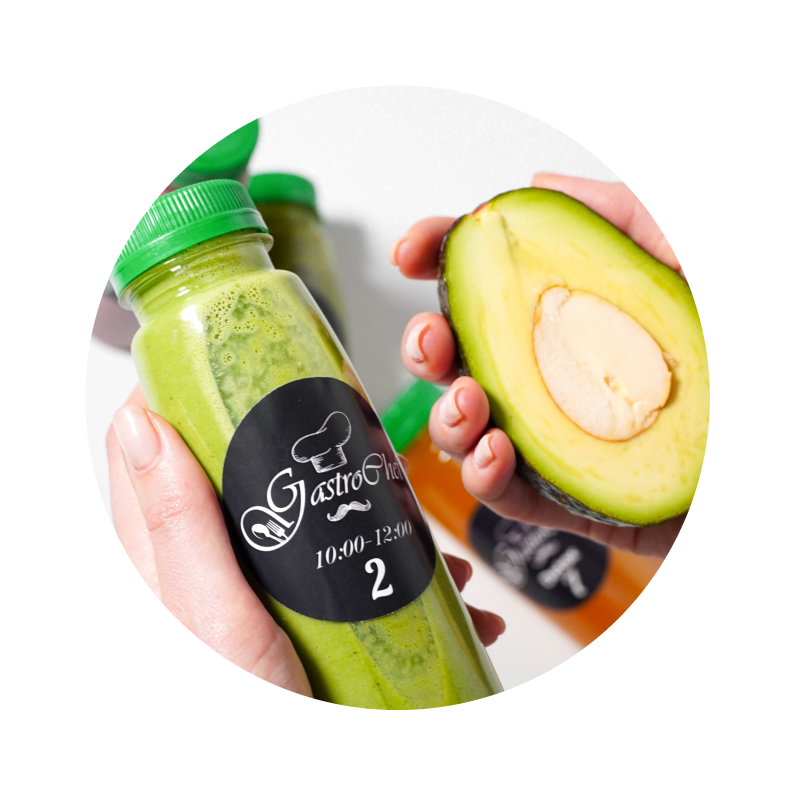
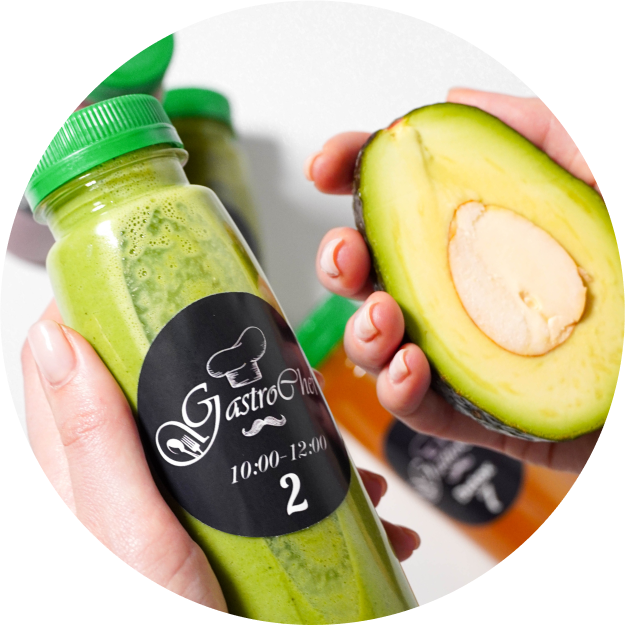
Created image component and create bg circle
Changelog:
 - Created image component
 - Header moved from HomePage into MainPromo
 - Aling promo content half

diff --git a/src/components/MainPromo/MainPromo.jsx b/src/components/MainPromo/MainPromo.jsx
@@ -1,10 +1,13 @@
 /* eslint-disable */
 import React, { useState } from 'react'
 
-import styles from './MainPromo.module.scss'
-import DATA from './data.js'
+import Header from 'components/Header'
 import MenuAddition from 'components/MenuAddition'
 import MainPromoContent from './components/MainPromoContent'
+import MainPromoImage from './components/MainPromoImage'
+
+import styles from './MainPromo.module.scss'
+import DATA from './data.js'
 
 const MainPromo = () => {
 	const [currentSlideId, setCurrentSlideId] = useState(0)
@@ -13,13 +16,11 @@ const MainPromo = () => {
 
 	return (
 		<section className={styles.promo}>
+			<Header />
 			<div className={styles.wrapper}>
 				<MenuAddition />
 				<MainPromoContent slideData={currentSlide} />
-
-				<div className={styles.photo}>
-					{/* <img src={imageSrc} alt='' className={styles.photoImage} /> */}
-				</div>
+				<MainPromoImage imageName={currentSlide.imageName} />
 			</div>
 
 			<div className={styles.dots}></div>

diff --git a/src/components/MainPromo/components/MainPromoImage/MainPromoImage.jsx b/src/components/MainPromo/components/MainPromoImage/MainPromoImage.jsx
@@ -1,0 +1,30 @@
+import React, { useState, useEffect } from 'react'
+import PropTypes from 'prop-types'
+
+import styles from './MainPromoImage.module.scss'
+
+const MainPromoImage = ({ imageName }) => {
+	const [image, setImage] = useState('')
+
+	useEffect(() => {
+		if (imageName) {
+			import(`../../../../assets/images/promo-slide-${imageName}.png`).then(
+				image => {
+					setImage(image.default)
+				}
+			)
+		}
+	}, [])
+
+	return (
+		<div className={styles.wrapper}>
+			<img src={image} alt={imageName} className={styles.image} />
+		</div>
+	)
+}
+
+MainPromoImage.propTypes = {
+	imageName: PropTypes.string.isRequired
+}
+
+export default MainPromoImage

diff --git a/src/components/MainPromo/data.js b/src/components/MainPromo/data.js
@@ -34,7 +34,7 @@ export default [
 			ua: '',
 			en: ''
 		},
-		image: 'promo-slide-chery.png',
+		imageName: 'chery',
 		url: ''
 	},
 	{
@@ -59,7 +59,7 @@ export default [
 			ua: '',
 			en: ''
 		},
-		image: 'promo-slide-man',
+		imageName: 'man',
 		url: ''
 	},
 	{
@@ -84,7 +84,7 @@ export default [
 			ua: '',
 			en: ''
 		},
-		image: '',
+		imageName: '',
 		url: ''
 	},
 	{
@@ -109,7 +109,7 @@ export default [
 			ua: '',
 			en: ''
 		},
-		image: '',
+		imageName: '',
 		url: ''
 	}
 ]

diff --git a/src/components/MainPromo/MainPromo.module.scss b/src/components/MainPromo/MainPromo.module.scss
@@ -1,0 +1,28 @@
+.promo {
+	padding-left: 50px;
+	padding-right: 57px;
+	overflow-x: hidden;
+
+	position: relative;
+	&::before {
+		content: '';
+		position: absolute;
+		top: -100px;
+		right: -350px;
+
+		width: 1294px;
+		height: 1294px;
+
+		border-radius: 50%;
+		background: var(--accent);
+		box-shadow: 0px 0px 40px rgba(86, 86, 86, 0.4);
+
+		z-index: -100;
+	}
+}
+
+.wrapper {
+	display: flex;
+	justify-content: space-between;
+	align-items: center;
+}

diff --git a/src/components/Header/Header.module.scss b/src/components/Header/Header.module.scss
@@ -1,10 +1,11 @@
 .header {
-	margin: 0 370px 0 330px;
+	margin: 0 40px 0 0px;
 	padding-top: 52px;
 	font-size: 16px;
 
 	display: flex;
-	justify-content: space-between;
+	justify-content: center;
+	column-gap: 20px;
 }
 
 .headerFistPart {
@@ -63,7 +64,6 @@
 .phone {
 	display: inline-block;
 
-	margin-left: 20px;
 	padding: 14px 30px;
 
 	height: 52px;

diff --git a/src/components/MainPromo/components/MainPromoImage/MainPromoImage.module.scss b/src/components/MainPromo/components/MainPromoImage/MainPromoImage.module.scss
@@ -1,0 +1,15 @@
+.wrapper {
+	width: 700px;
+	height: 700px;
+
+	display: flex;
+	justify-content: center;
+	align-items: center;
+
+	border-radius: 50%;
+	background: var(--bg-light);
+	box-shadow: 0px 0px 30px rgba(86, 86, 86, 0.3);
+}
+
+.image {
+}

diff --git a/src/pages/HomePage.jsx b/src/pages/HomePage.jsx
@@ -1,12 +1,10 @@
 import React from 'react'
 
-import Header from 'components/Header'
 import MainPromo from 'components/MainPromo'
 
 const HomePage = () => {
 	return (
 		<div>
-			<Header />
 			<MainPromo />
 		</div>
 	)

diff --git a/src/components/MainPromo/components/MainPromoContent/MainPromoContent.module.scss b/src/components/MainPromo/components/MainPromoContent/MainPromoContent.module.scss
@@ -1,3 +1,8 @@
+.content {
+	max-width: 535px;
+	padding-bottom: 30px;
+}
+
 .green {
 	font-family: inherit;
 	font-weight: inherit;

diff --git a/src/scss/index.scss b/src/scss/index.scss
@@ -8,6 +8,11 @@
 	font-weight: normal;
 }
 
+html {
+	width: 100%;
+	height: 100%;
+}
+
 body {
 	background-color: var(--bg);
 }

diff --git a/src/components/MainPromo/components/MainPromoImage/index.jsx b/src/components/MainPromo/components/MainPromoImage/index.jsx
@@ -1,0 +1,1 @@
+export { default } from './MainPromoImage'
